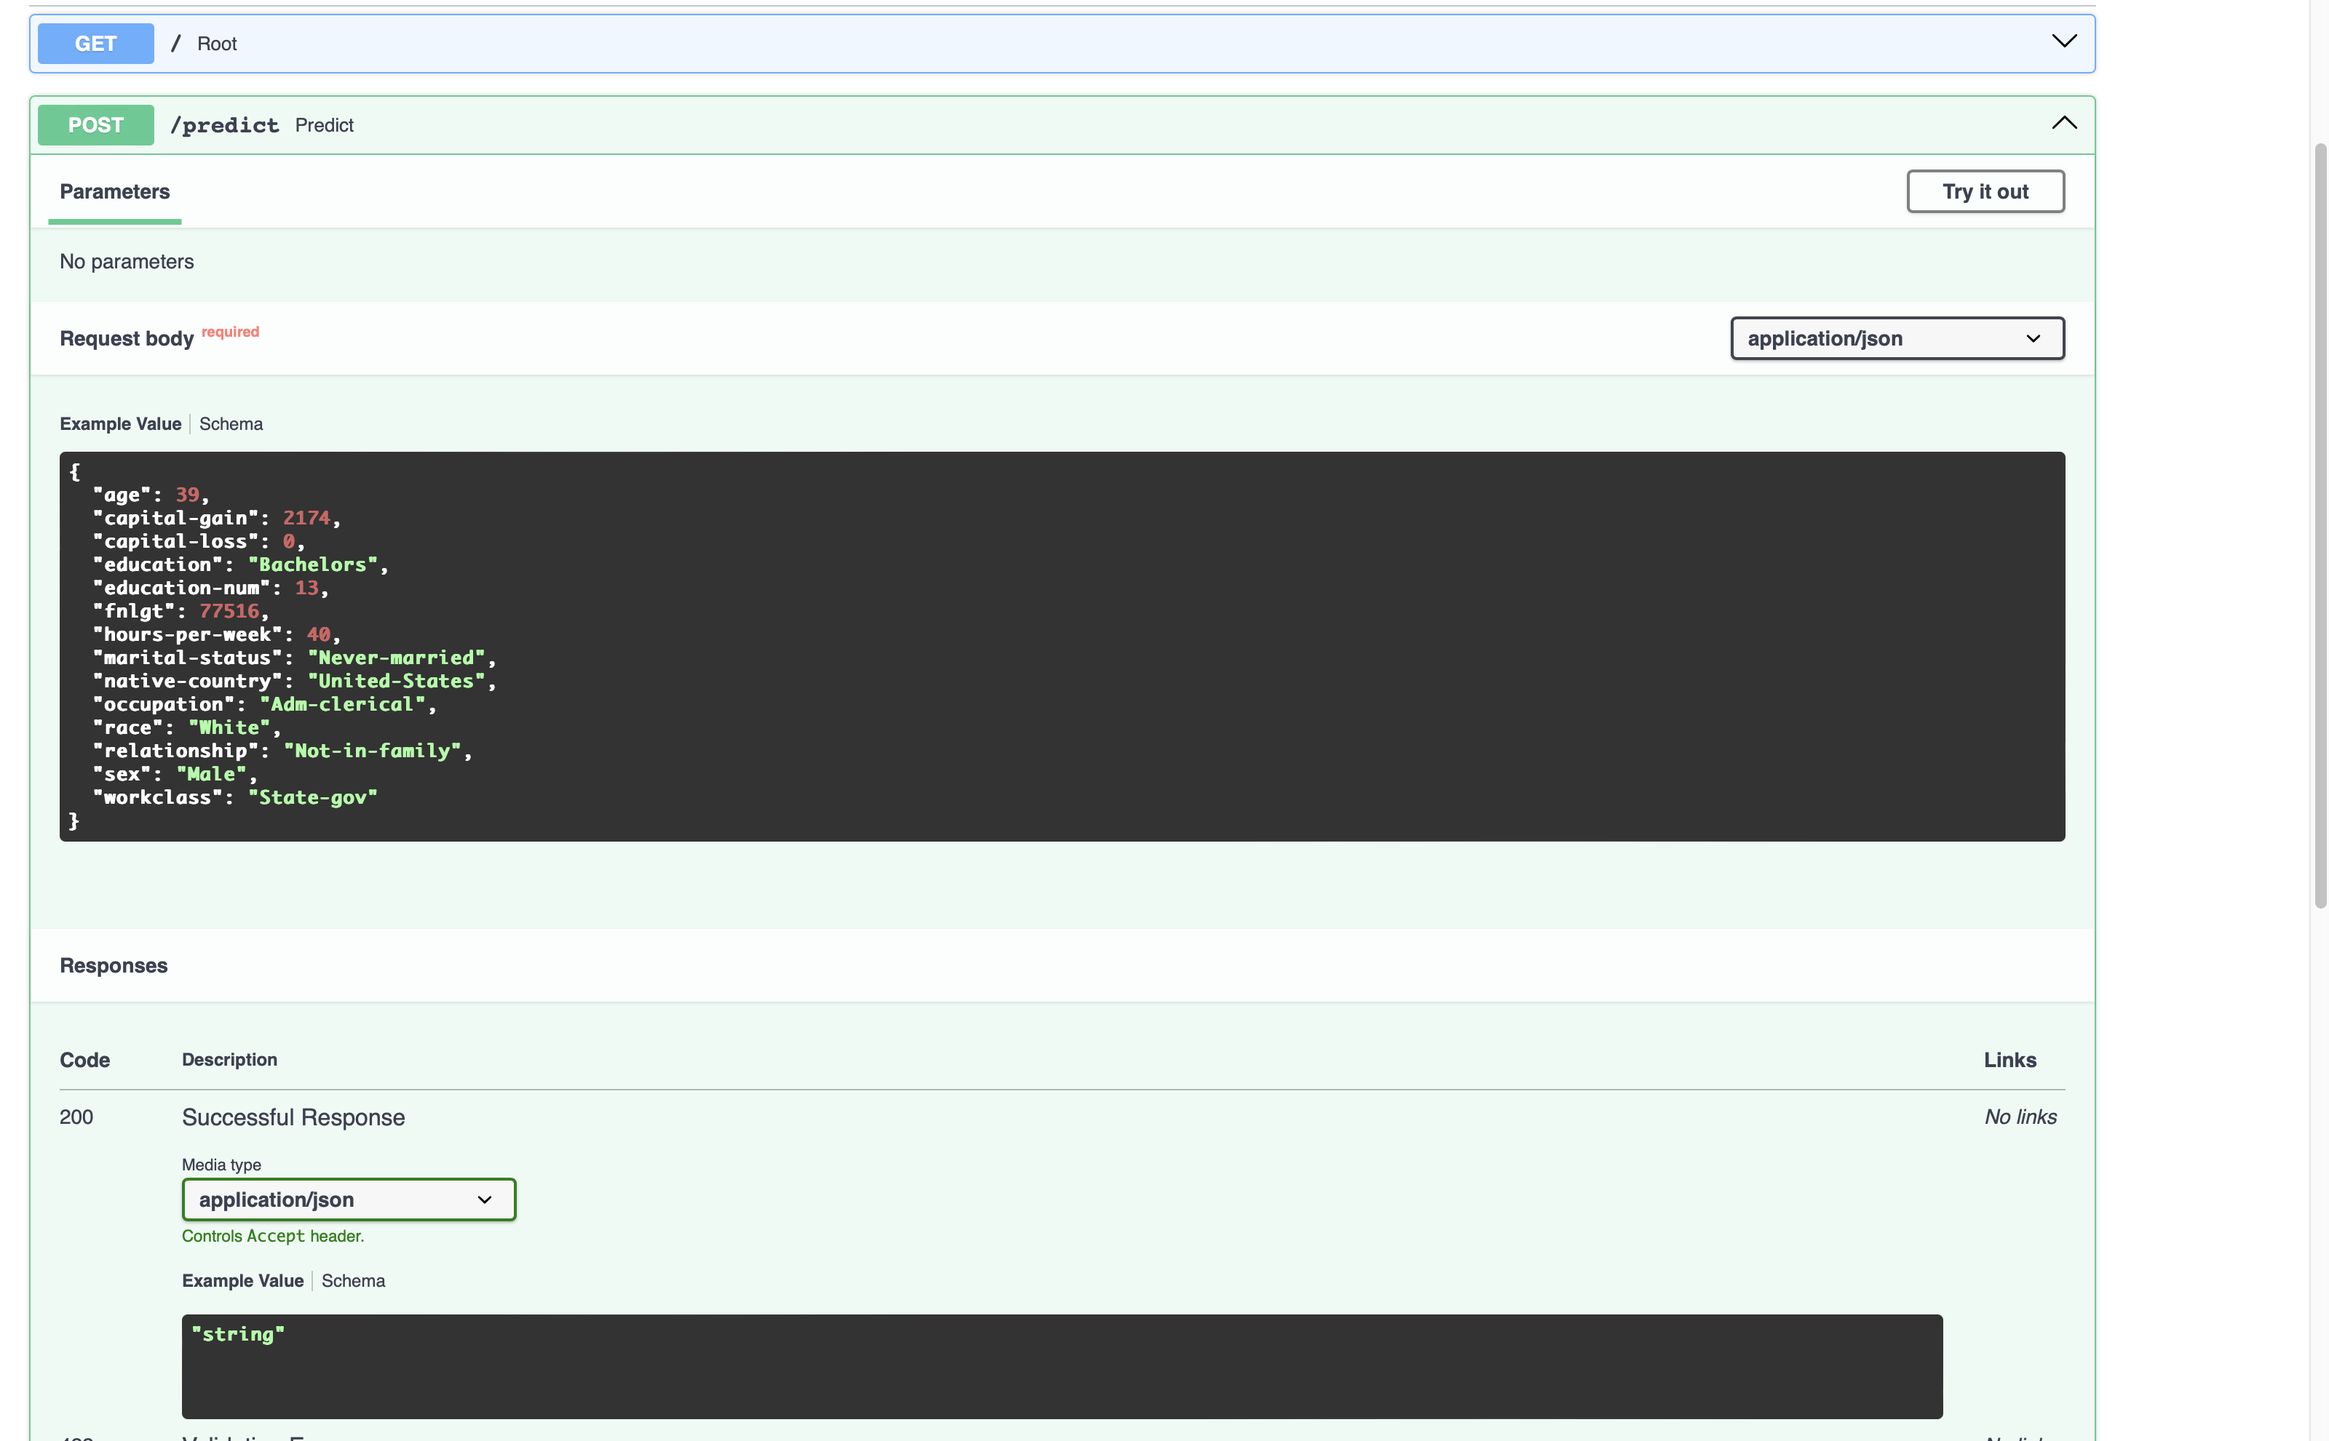
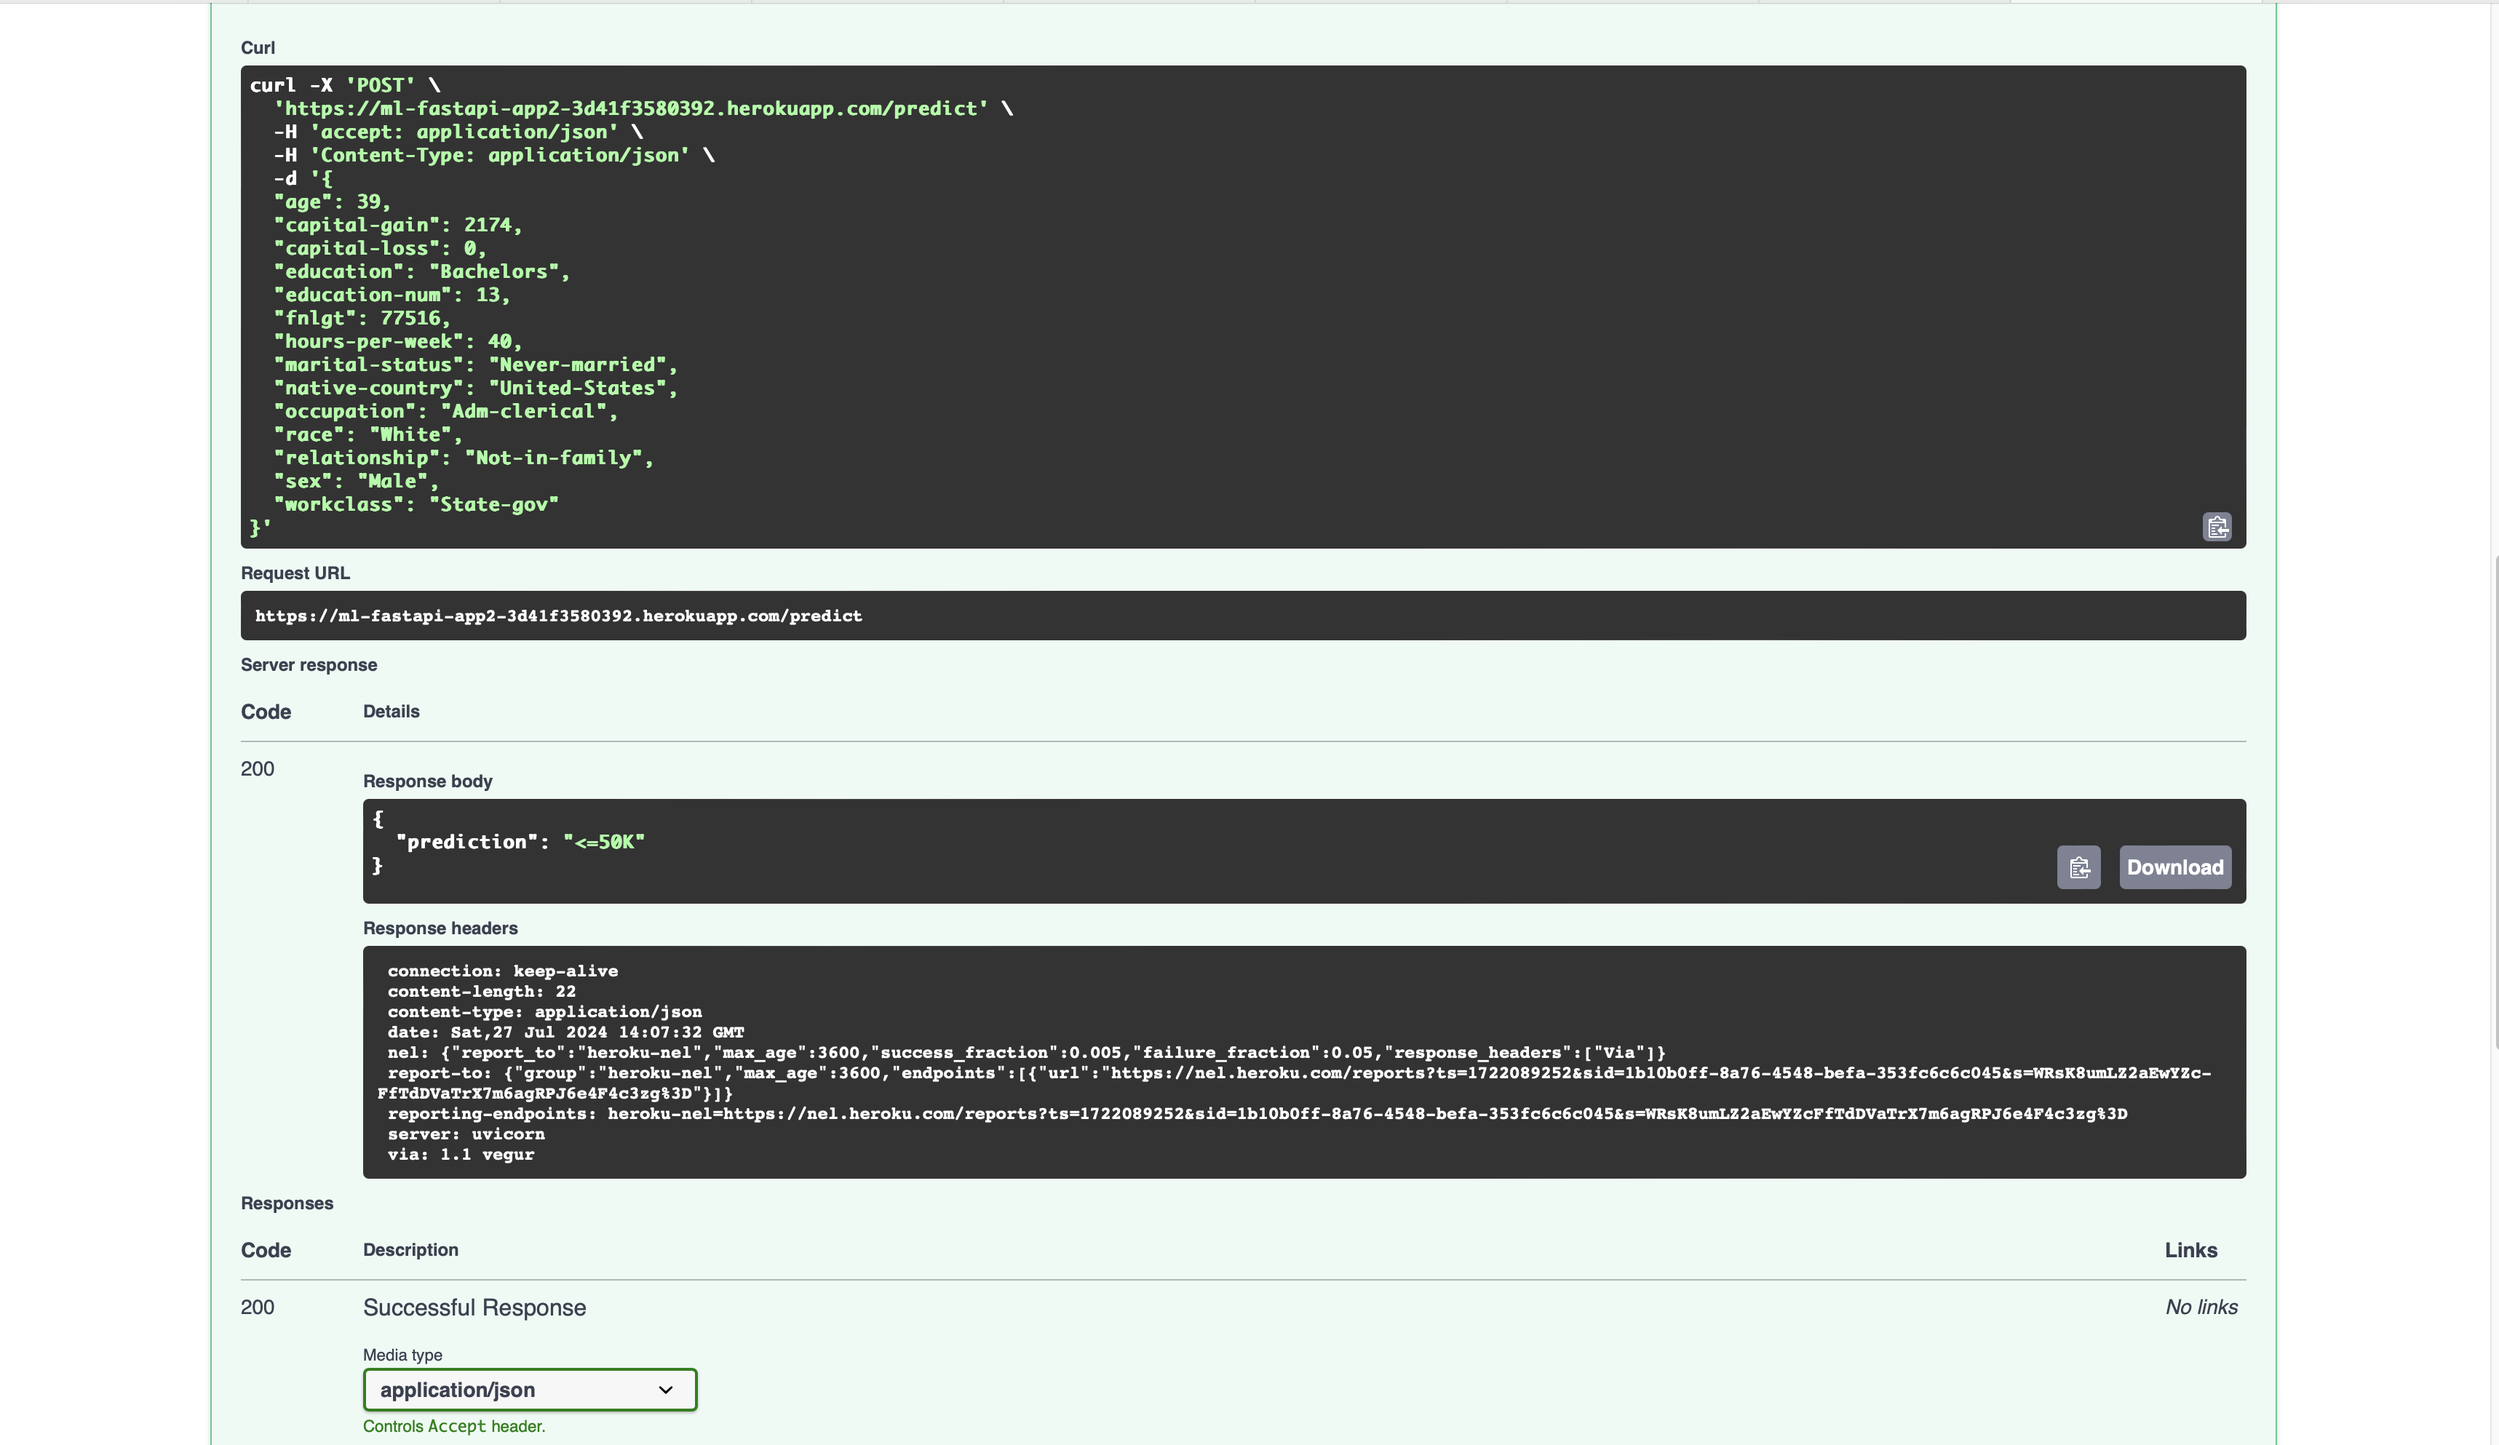
Correct review

diff --git a/live_request.py b/live_request.py
@@ -5,21 +5,42 @@ import json
 url = "https://ml-fastapi-app2-3d41f3580392.herokuapp.com/predict"
 
 data = {
-        "age": 39,
-        "workclass": "State-gov",
-        "fnlgt": 77516,
-        "education": "Bachelors",
-        "education-num": 13,
-        "marital-status": "Never-married",
-        "occupation": "Adm-clerical",
-        "relationship": "Not-in-family",
-        "race": "White",
-        "sex": "Male",
-        "capital-gain": 2174,
-        "capital-loss": 0,
-        "hours-per-week": 40,
-        "native-country": "United-States"
-    }
+    "age": 39,
+    "workclass": "State-gov",
+    "fnlgt": 77516,
+    "education": "Bachelors",
+    "education-num": 13,
+    "marital-status": "Never-married",
+    "occupation": "Adm-clerical",
+    "relationship": "Not-in-family",
+    "race": "White",
+    "sex": "Male",
+    "capital-gain": 2174,
+    "capital-loss": 0,
+    "hours-per-week": 40,
+    "native-country": "United-States"
+}
 
-response = requests.post(url, json=data)
-print(response.json())
+try:
+    # Make the request to the API
+    response = requests.post(url, json=data)
+    
+    # Check if the response status code is OK (200)
+    if response.status_code == 200:
+        # Parse the JSON response
+        response_data = response.json()
+        # Extract the prediction value
+        prediction = response_data.get("prediction", "No prediction available")
+        # Print the status code and prediction
+        print("Status Code:", response.status_code)
+        print("Prediction:", prediction)
+    else:
+        # Print an error message if the response is not OK
+        print("Error: Received a non-200 status code")
+        print("Status Code:", response.status_code)
+        print("Response:", response.text)
+
+except requests.exceptions.RequestException as e:
+    # Handle exceptions related to the request
+    print("Error: An error occurred while making the request.")
+    print(e)
